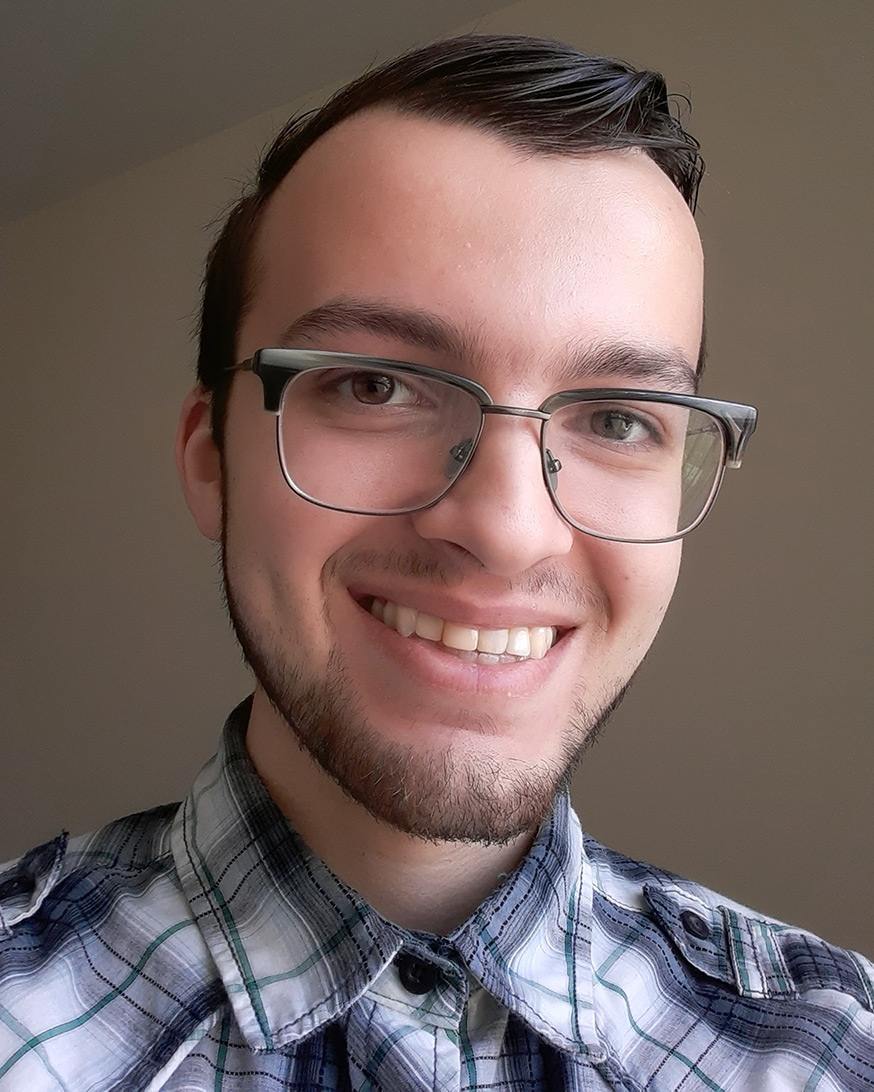
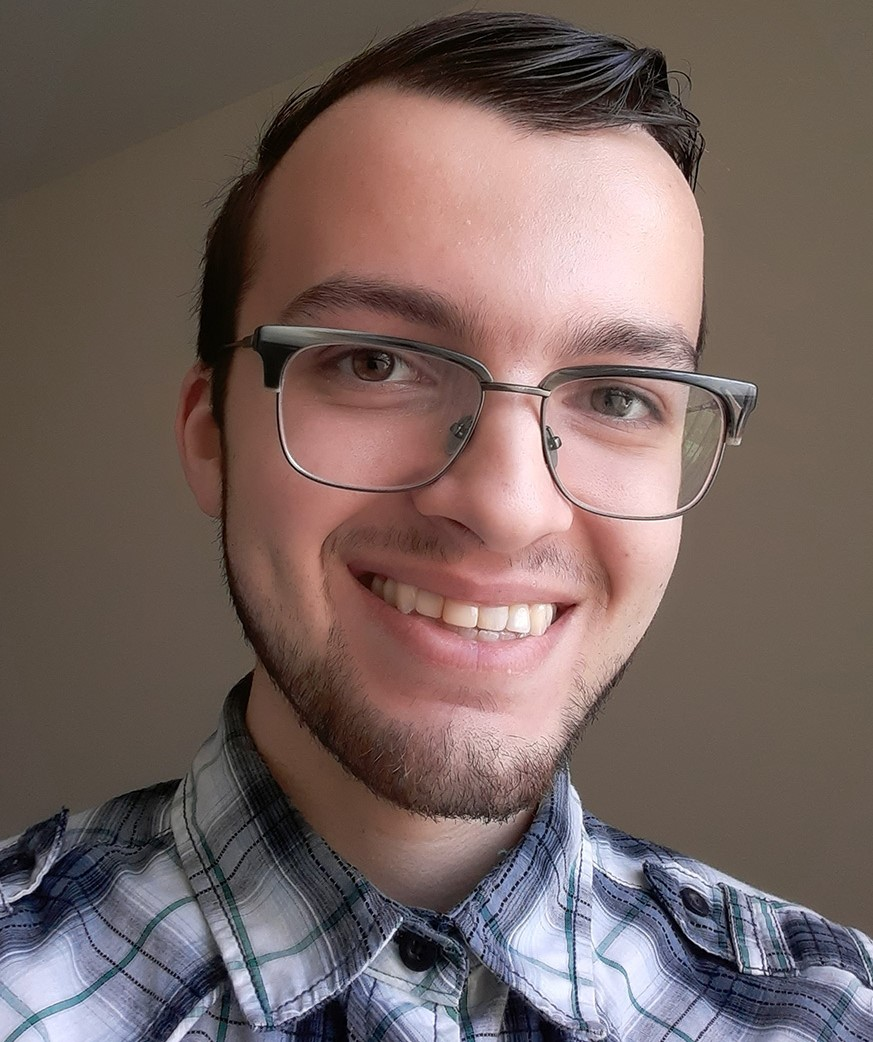
about me restyling

diff --git a/index.html b/index.html
@@ -113,24 +113,26 @@
                 </proj-desc>
             </div>
 
-            <!-- <h3><a href="">Project 3</a></h3>
-
-            <image-slider>
-                <img slot="slider-images" src="media/falling-hand.png" alt="Falling Hand sample gameplay">
-                <img slot="slider-images" src="media/cropbuster.jpg" alt="PLACEHOLDER">
-                <img slot="slider-images" src="media/siege-the-castle.PNG" alt="PLACEHOLDER">
-            </image-slider>
-
-            <proj-desc>
-                <p slot="proj-desc">
-                    Description of the project, technologies and techniques used, my role in the project, description of the 
-                    project, technologies and techniques used, my role in the project, description of the project, technologies 
-                    and techniques used, my role in the project, description of the project, technologies and techniques used, 
-                    my role in the project, description of the project, technologies and techniques used, my role in the project, 
-                    description of the project, technologies and techniques used, my role in the project, description of the project, 
-                    technologies and techniques used, my role in the project.
-                </p>
-            </proj-desc> -->
+            <!-- <div class="project-group">
+                 <h3><a href="">Project 3</a></h3>
+    
+                <image-slider>
+                    <img slot="slider-images" src="media/falling-hand.png" alt="Falling Hand sample gameplay">
+                    <img slot="slider-images" src="media/cropbuster.jpg" alt="PLACEHOLDER">
+                    <img slot="slider-images" src="media/siege-the-castle.PNG" alt="PLACEHOLDER">
+                </image-slider>
+    
+                <proj-desc>
+                    <p slot="proj-desc">
+                        Description of the project, technologies and techniques used, my role in the project, description of the 
+                        project, technologies and techniques used, my role in the project, description of the project, technologies 
+                        and techniques used, my role in the project, description of the project, technologies and techniques used, 
+                        my role in the project, description of the project, technologies and techniques used, my role in the project, 
+                        description of the project, technologies and techniques used, my role in the project, description of the project, 
+                        technologies and techniques used, my role in the project.
+                    </p>
+                </proj-desc>
+            </div> -->
         </section>
         
         <!--Empty div for nav links-->
@@ -139,10 +141,10 @@
         <h2>Resume</h2>
     
         <section id="resume">
+            <embed src="media/Andrew-Bradbury-Resume.pdf" alt="Resume embedded pdf" id="resume-image">
             <p>
             <i class="far fa-file-pdf"></i><a href="media/Andrew-Bradbury-Resume.pdf">View resume as a PDF</a>
             </p>
-            <embed src="media/Andrew-Bradbury-Resume.pdf" alt="Resume embedded pdf" id="resume-image">
         </section>
     
         <!--Empty div for nav links-->
@@ -162,9 +164,9 @@
     
             <div id="contact">
                 <ul id="contact-list">
-                    <li><i class="far fa-envelope"></i>Email: amb7316 [at] rit.edu</li>
-                    <li><i class="fab fa-linkedin"></i><a href="https://www.linkedin.com/in/andrbrad">LinkedIn</a></li>
-                    <li><i class="fab fa-github"></i><a href="https://github.com/ABradbury823">GitHub</a></li>
+                    <li></i><a href="mailto:amb7316@rit.edu"><i class="far fa-envelope"></i><!--Email: amb7316 [at] rit.edu--></a></li>
+                    <li></i><a href="https://www.linkedin.com/in/andrbrad"><i class="fab fa-linkedin"></i><!--LinkedIn--></a></li>
+                    <li></i><a href="https://github.com/ABradbury823"><i class="fab fa-github"></i><!--GitHub--></a></li>
                 </ul>
             </div>
             <img src="media/profile-image.jpg" alt="This is an image of me" id="bio-image">

diff --git a/css/style.css b/css/style.css
@@ -82,7 +82,7 @@ blockquote{
 }
 
 h2{
-    font-size: 2em;
+    font-size: 2.25rem;
     font-weight: normal;
     font-variant-caps: small-caps;
 }
@@ -98,12 +98,11 @@ h3{
     margin: 1rem 0;
 }
 
-h3 a{
+h3 a, #contact a{
     text-decoration: none;
     font-weight: normal;
     font-variant-caps: small-caps;
-    font-size: 1.5rem;
-    font-style: italic;
+    font-size: 1.75rem;
 }
 
 h3 a:link, #contact a:link{color: #eee; }
@@ -116,7 +115,6 @@ section#projects{
     display: flex;
     flex-direction: row;
     flex-wrap: wrap;
-    align-items: flex-end;
 }
 
 div.project-group{
@@ -175,12 +173,12 @@ section#bio{
     grid-template-areas: "about-me"
                          "image"
                          "contact";
-    margin-bottom: 1rem;
 }
 
 #about-me-text{
     grid-area: about-me;
     margin-top: 0;
+    margin-bottom: 0;
     margin-right: 1rem;
     line-height: 1.5rem;
 }
@@ -188,11 +186,11 @@ section#bio{
 #bio-image{
     grid-area: image;
     justify-self: left;
-    max-width: 225px;
+    max-width: 250px;
     width: 100%;
     height: auto;
-    border: solid 5px rgb(40,40,40);
-    margin-bottom: 1rem;
+    border: solid 1px rgb(40,40,40);
+    box-shadow: 3px 3px 3px #111;
 }
 
 #contact{
@@ -204,13 +202,13 @@ section#bio{
 
 #contact-list{
     display: flex;
-    justify-content: space-evenly;
+    justify-content: center;
     list-style-type: none;
-    margin: 1rem 0;
-    padding: 1rem 0;
+    margin: 0;
+    padding: 0;
 }
 
-#contact-list i{margin: 1rem .25rem 1rem 0;}
+#contact-list i{margin: 1rem 2rem 1rem 0;}
 
 @media screen and (min-width: 1050px)
 {
@@ -230,8 +228,8 @@ section#bio{
 @media screen and (min-width: 1250px)
 {
     section#bio{
-        grid-template-rows: 1fr 1fr;
-        grid-template-columns: 1fr 1fr;
+        grid-template-rows: 1fr .1fr;
+        grid-template-columns: 1fr .5fr;
         grid-template-areas: "about-me image"
                              "contact  contact";
     }
@@ -239,7 +237,6 @@ section#bio{
     #bio-image{
         grid-area: image;
         justify-self: right;
-        margin-bottom: 1rem;
     }
 
     #contact{position: static;}

diff --git a/js/proj-desc.js b/js/proj-desc.js
@@ -66,7 +66,7 @@ class ProjDesc extends HTMLElement {
         this.content = this.shadowRoot.querySelector(".project");
         this.button = this.shadowRoot.querySelector(".project-btn");
 
-        this.content.hidden = false;
+        this.content.hidden = true;
 
         //button event
         this.button.onclick = e => this.toggleVisible();
